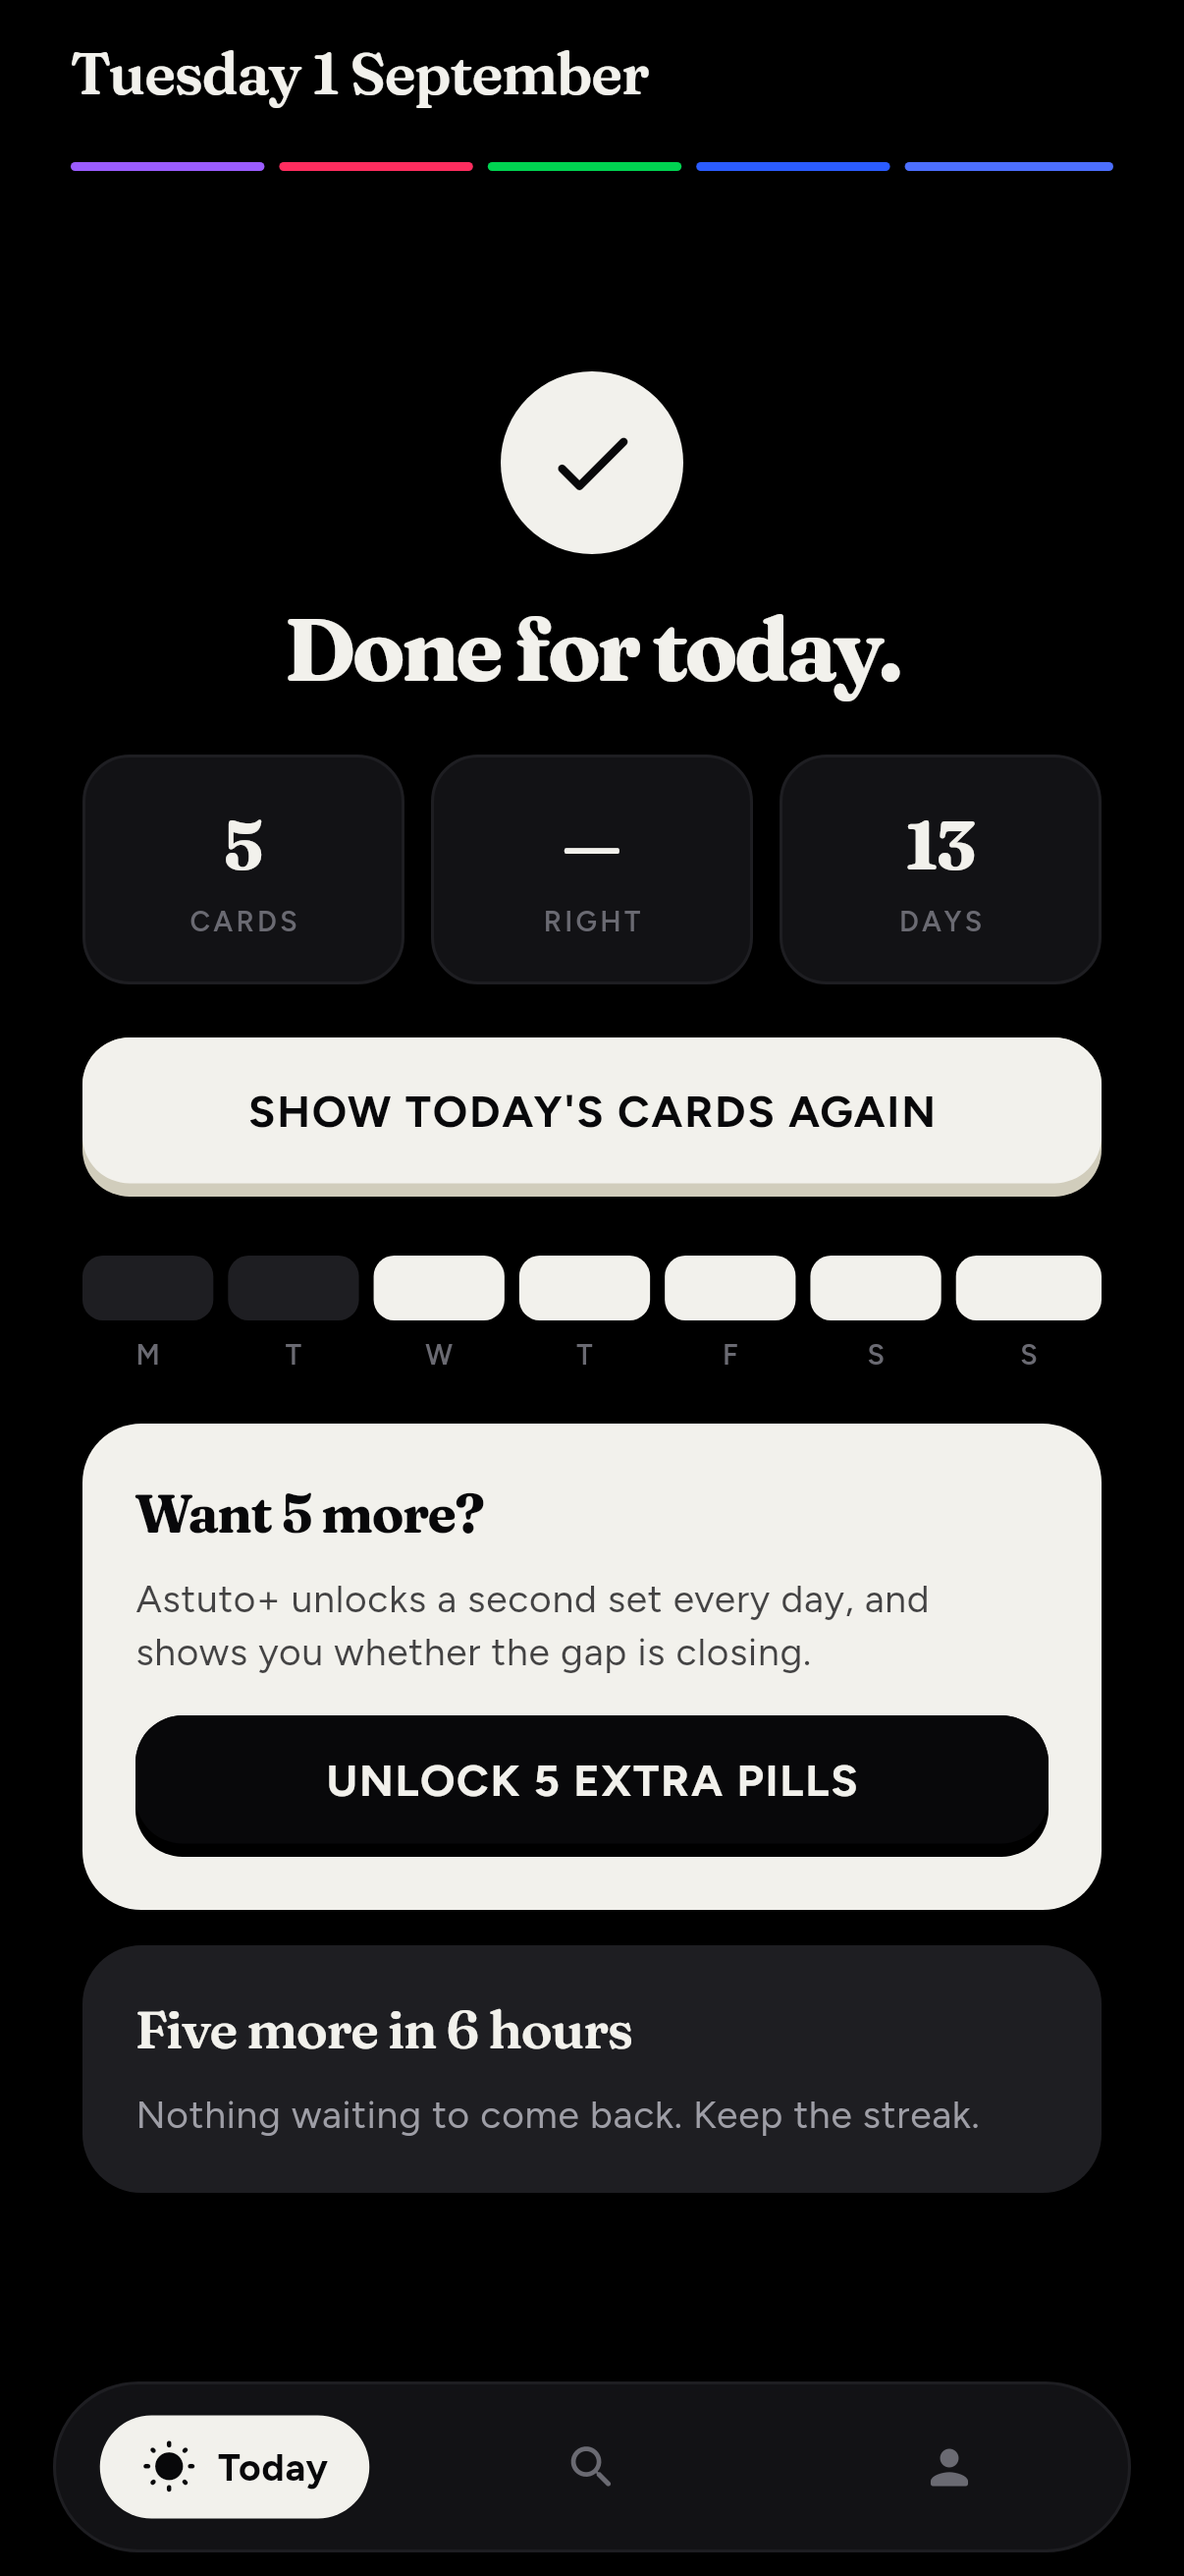
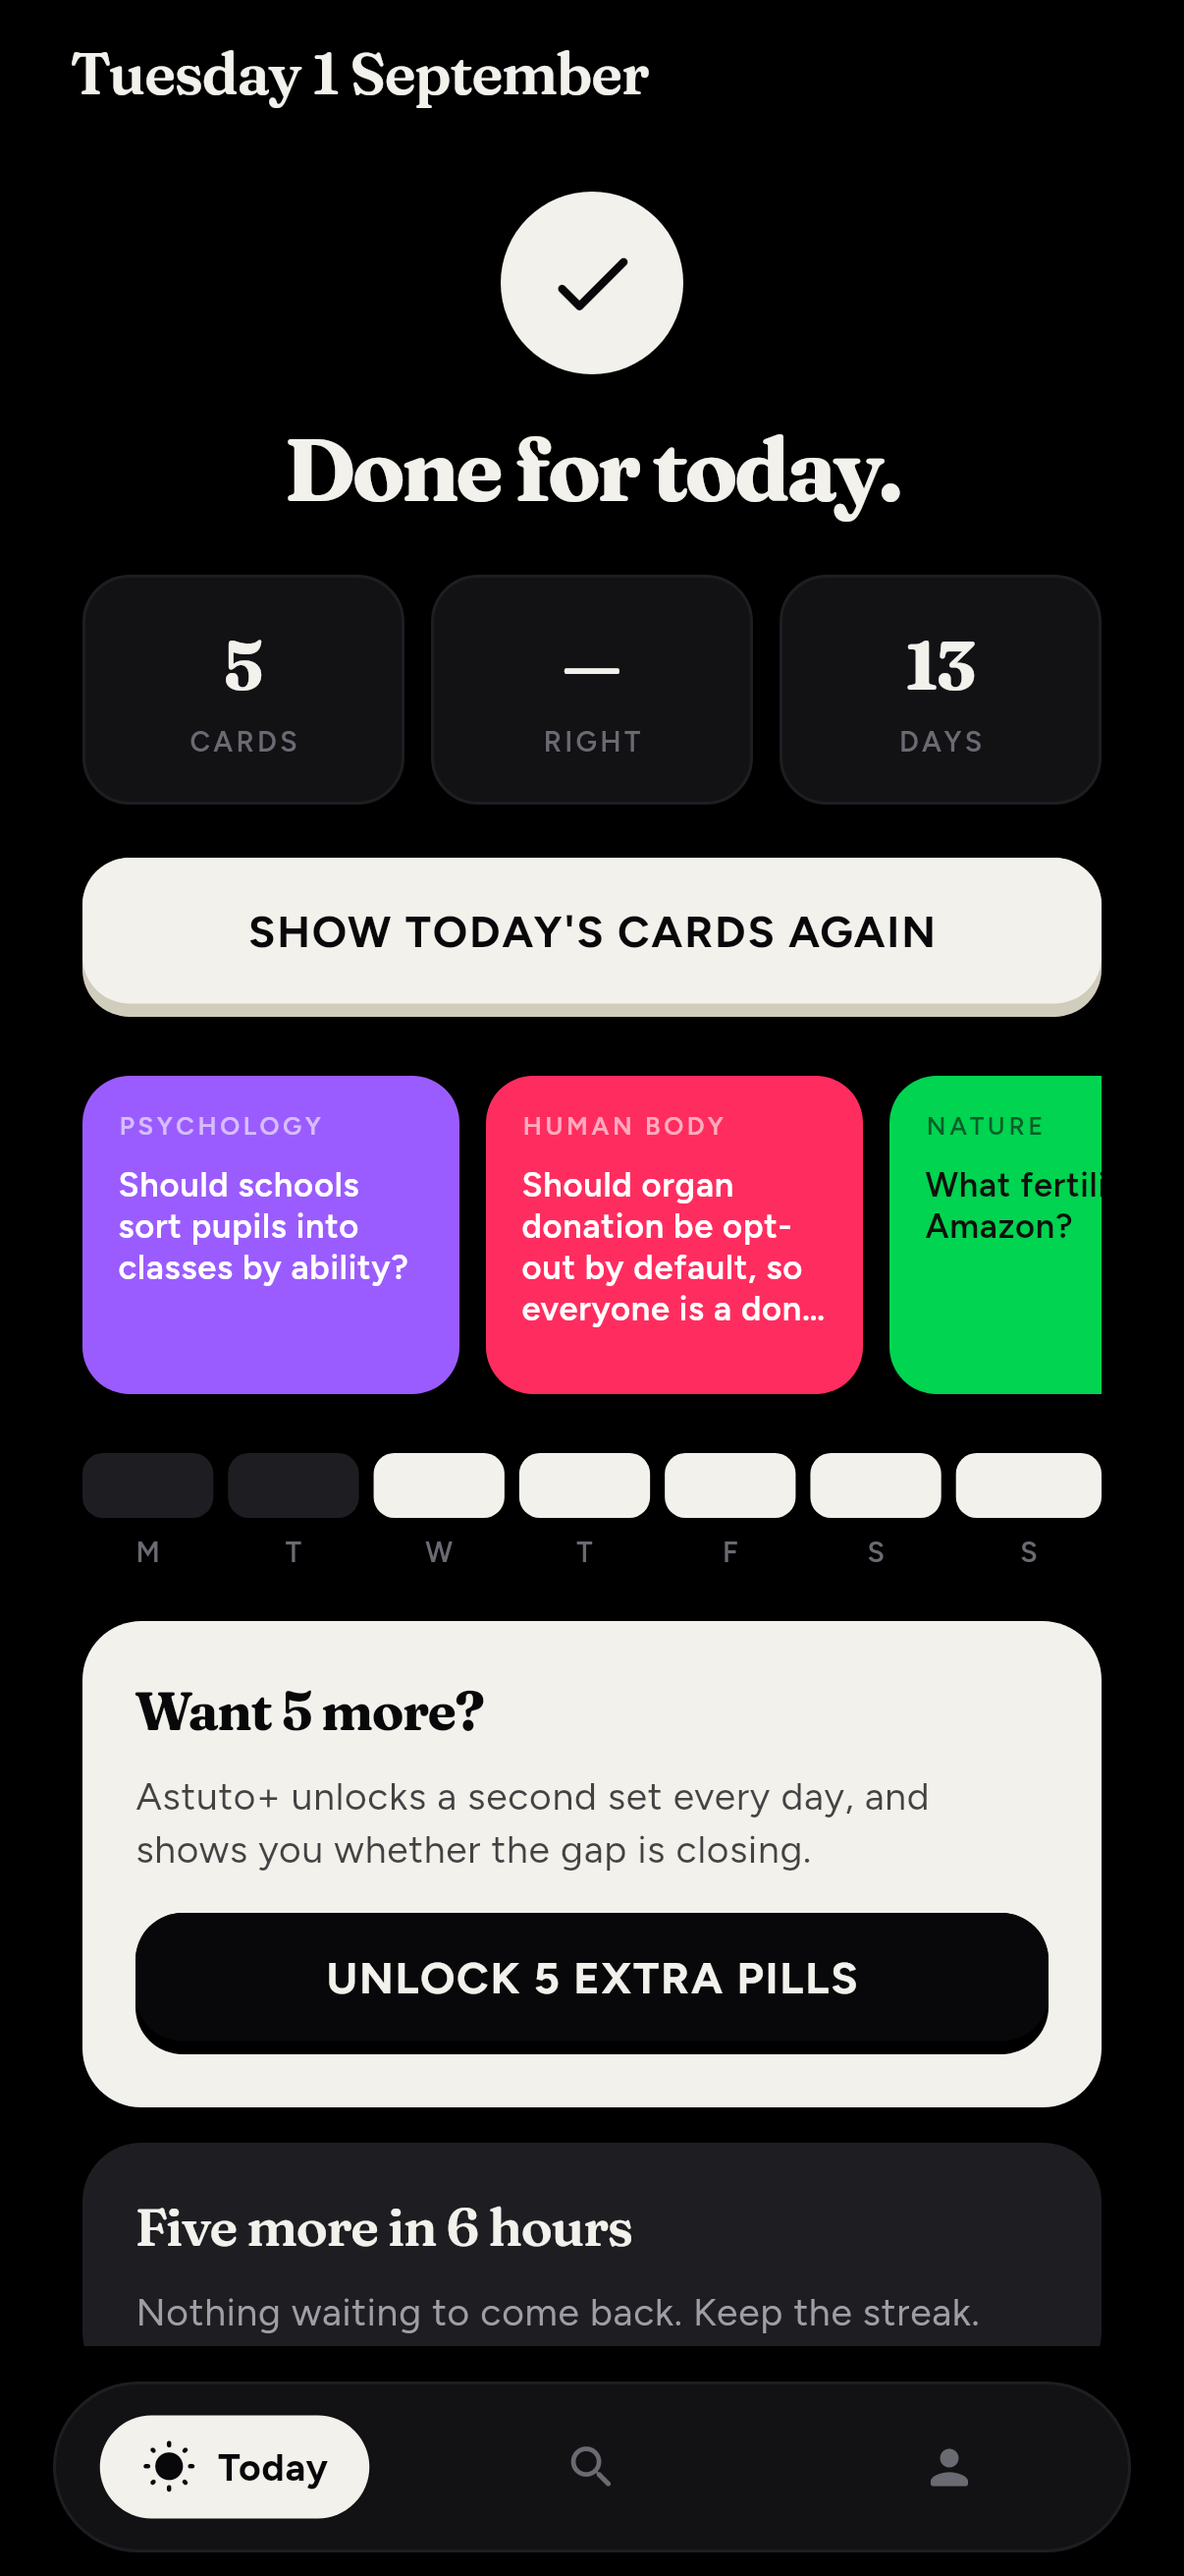
The finished day shows the five, small
The colour bars come off once the day is done: the screen says so in words,
and a full row of colour under that is decoration on the screen whose whole
job is to be quiet. They stay while there is a day left to run, which is
when they are telling you something.

Under the recap, the five as thumbnails — the card's own colour, its
subject, and enough of the question to remember which one it was. Not a
re-read: a glance at what the day was made of, the way you would look at
five things laid on a table. Each opens itself, so the button above it is
for going through all of them and this is for going back to one.

diff --git a/lib/screens/recap_view.dart b/lib/screens/recap_view.dart
@@ -1,5 +1,6 @@
 import 'package:flutter/material.dart';
 
+import '../models/pill.dart';
 import '../state/app_state.dart';
 import '../theme.dart';
 import '../widgets/chunky.dart';
@@ -118,8 +119,34 @@ class RecapView extends StatelessWidget {
             ),
           ),
           const SizedBox(height: 20),
+          // The five, small. Not a re-read — a glance at what the day was
+          // made of, the way you would look at five things laid on a table.
+          // Each one opens itself, so the button above is for going through
+          // all of them and this is for going back to one.
           RiseIn(
-            delay: const Duration(milliseconds: 300),
+            delay: const Duration(milliseconds: 280),
+            child: SizedBox(
+              height: 108,
+              child: ListView.builder(
+                scrollDirection: Axis.horizontal,
+                padding: EdgeInsets.zero,
+                itemCount: app.todaysDeck.length,
+                itemBuilder: (context, i) => _Thumb(
+                  pill: app.todaysDeck[i],
+                  onTap: () => openDeckViewer(
+                    context,
+                    app,
+                    app.todaysDeck,
+                    "Today's five",
+                    initialIndex: i,
+                  ),
+                ),
+              ),
+            ),
+          ),
+          const SizedBox(height: 20),
+          RiseIn(
+            delay: const Duration(milliseconds: 340),
             child: Row(
               children: List.generate(7, (i) {
                 return Expanded(
@@ -426,6 +453,61 @@ class _RecordNudge extends StatelessWidget {
             onPressed: () => showRecordShareSheet(context, app),
           ),
         ],
+      ),
+    );
+  }
+}
+
+/// One of the day's cards at a glance: its colour, its subject, and enough
+/// of the question to remember which one it was.
+class _Thumb extends StatelessWidget {
+  const _Thumb({required this.pill, required this.onTap});
+
+  final Pill pill;
+  final VoidCallback onTap;
+
+  @override
+  Widget build(BuildContext context) {
+    return GestureDetector(
+      behavior: HitTestBehavior.opaque,
+      onTap: onTap,
+      child: Container(
+        width: 128,
+        margin: const EdgeInsets.only(right: 9),
+        padding: const EdgeInsets.fromLTRB(12, 11, 12, 11),
+        decoration: BoxDecoration(
+          color: pill.color,
+          borderRadius: BorderRadius.circular(16),
+        ),
+        child: Column(
+          crossAxisAlignment: CrossAxisAlignment.start,
+          children: [
+            Text(
+              pill.topic.toUpperCase(),
+              maxLines: 1,
+              overflow: TextOverflow.ellipsis,
+              style: AppText.label(
+                size: 8.5,
+                spacing: 1.2,
+                color: pill.ink.withValues(alpha: 0.6),
+              ),
+            ),
+            const SizedBox(height: 7),
+            Expanded(
+              child: Text(
+                pill.question,
+                maxLines: 4,
+                overflow: TextOverflow.ellipsis,
+                style: AppText.body(
+                  size: 11.5,
+                  height: 1.22,
+                  weight: FontWeight.w600,
+                  color: pill.ink,
+                ),
+              ),
+            ),
+          ],
+        ),
       ),
     );
   }

diff --git a/lib/screens/today_screen.dart b/lib/screens/today_screen.dart
@@ -69,8 +69,13 @@ class _TodayScreenState extends State<TodayScreen> {
             onBack: widget.onBack,
           ),
           const SizedBox(height: 16),
-          _ProgressBars(deck: deck, index: index, done: app.todayCompleted),
-          const SizedBox(height: 16),
+          // Only while there is a day left to run. Once it is finished the
+          // screen says so in words, and a full row of colour under that is
+          // decoration on a screen whose whole job is to be quiet.
+          if (!app.todayCompleted) ...[
+            _ProgressBars(deck: deck, index: index, done: false),
+            const SizedBox(height: 16),
+          ],
 
           // The deck takes every pixel that is left.
           Expanded(
